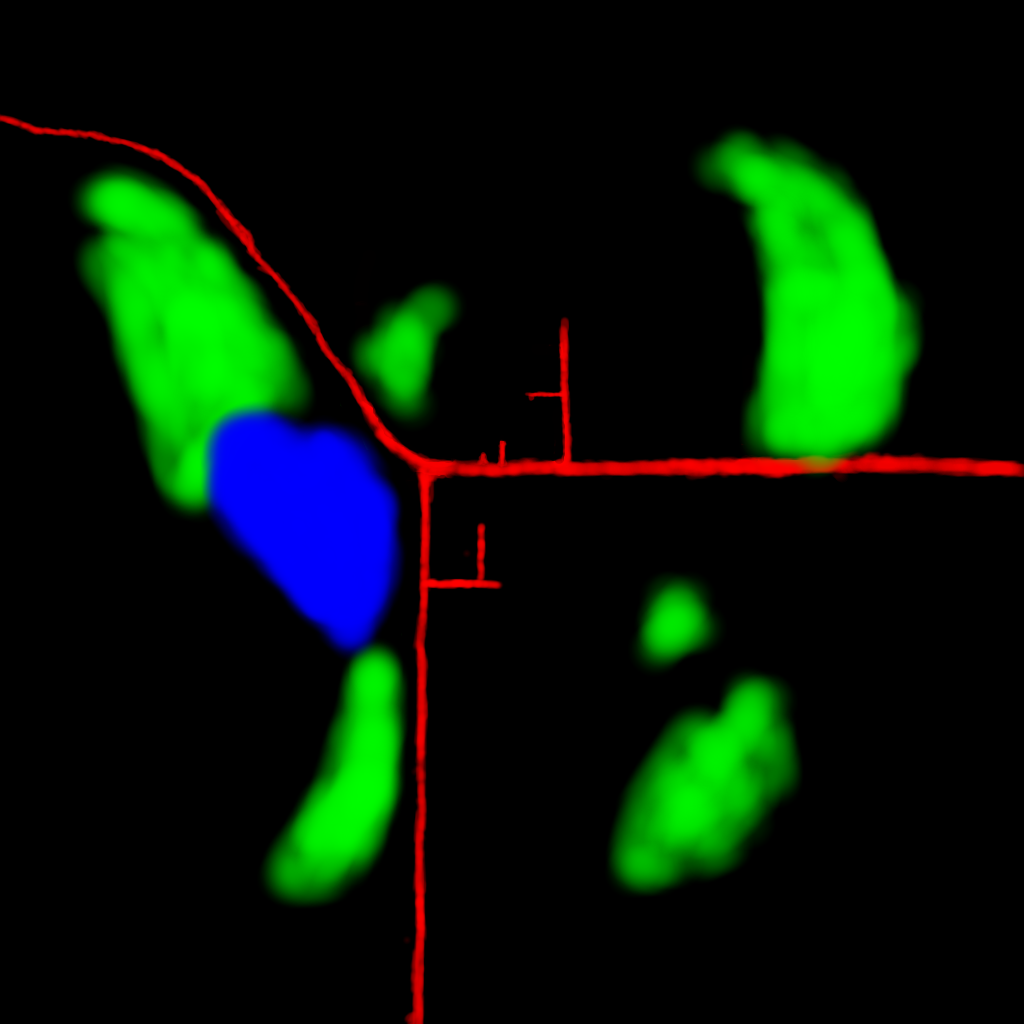
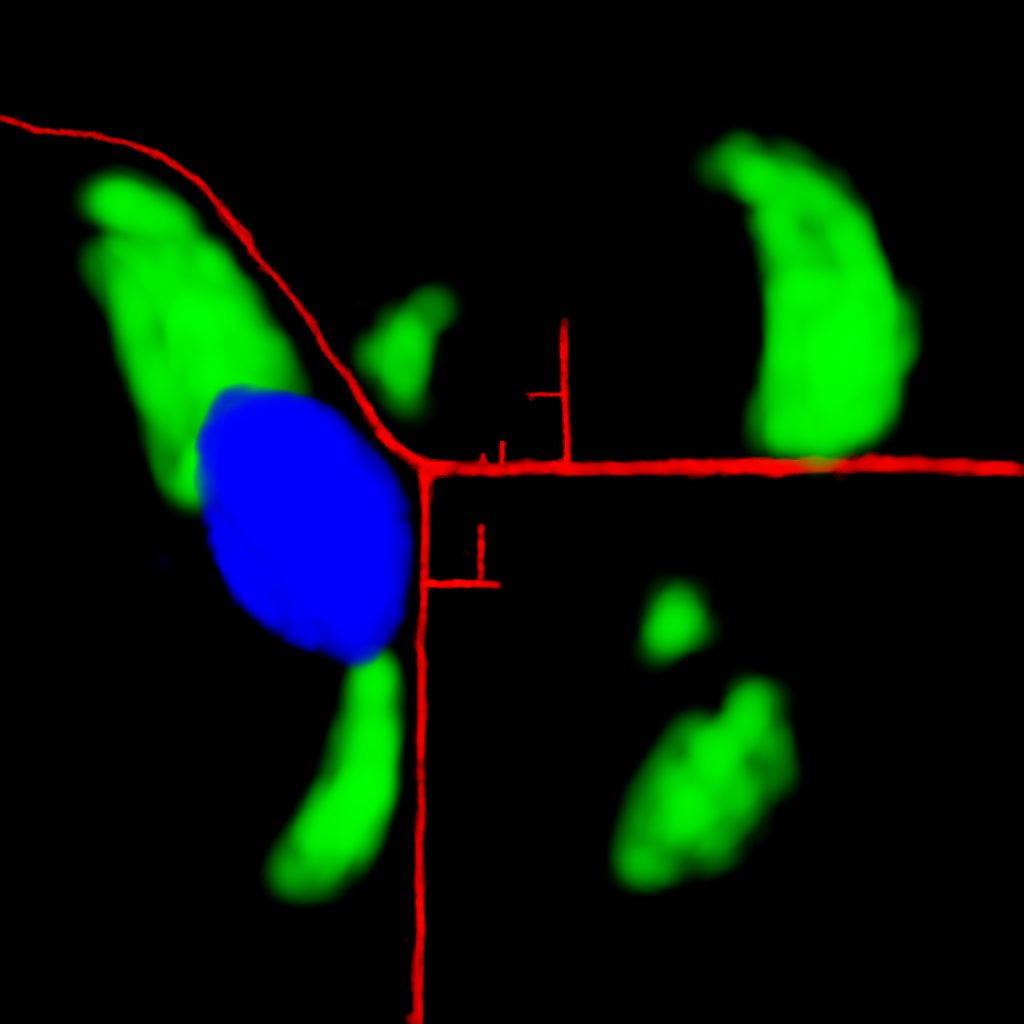
Blendmap update and trees are no longer placed on sand

Changed region(s): [[0.1875, 0.375, 0.4062, 0.6562]]

diff --git a/Engine Test/Test Game/Classes/TGWorld.cpp b/Engine Test/Test Game/Classes/TGWorld.cpp
@@ -1131,6 +1131,10 @@ namespace TG
 				continue;
 			}
 			
+			float sand  = _blendmap[IndexForPosition(pos)].b;
+			if(sand > 0.05f)
+				continue;
+			
 			ent = new RN::Entity();
 			ent->SetFlags(ent->GetFlags() | RN::SceneNode::Flags::Static);
 			ent->SetModel(trees[dualPhaseLCG.RandomInt32Range(0, TREE_MODEL_COUNT)]);
@@ -1188,9 +1192,9 @@ namespace TG
 			
 			int32 value  = dualPhaseLCG.RandomInt32Range(1, 100);
 			float factor = _blendmap[IndexForPosition(pos)].g;
-			float water  = _blendmap[IndexForPosition(pos)].b;
 			
-			if(water > 0.05f)
+			float sand  = _blendmap[IndexForPosition(pos)].b;
+			if(sand > 0.05f)
 				continue;
 			
 			value = roundf(factor * 40) + value;
